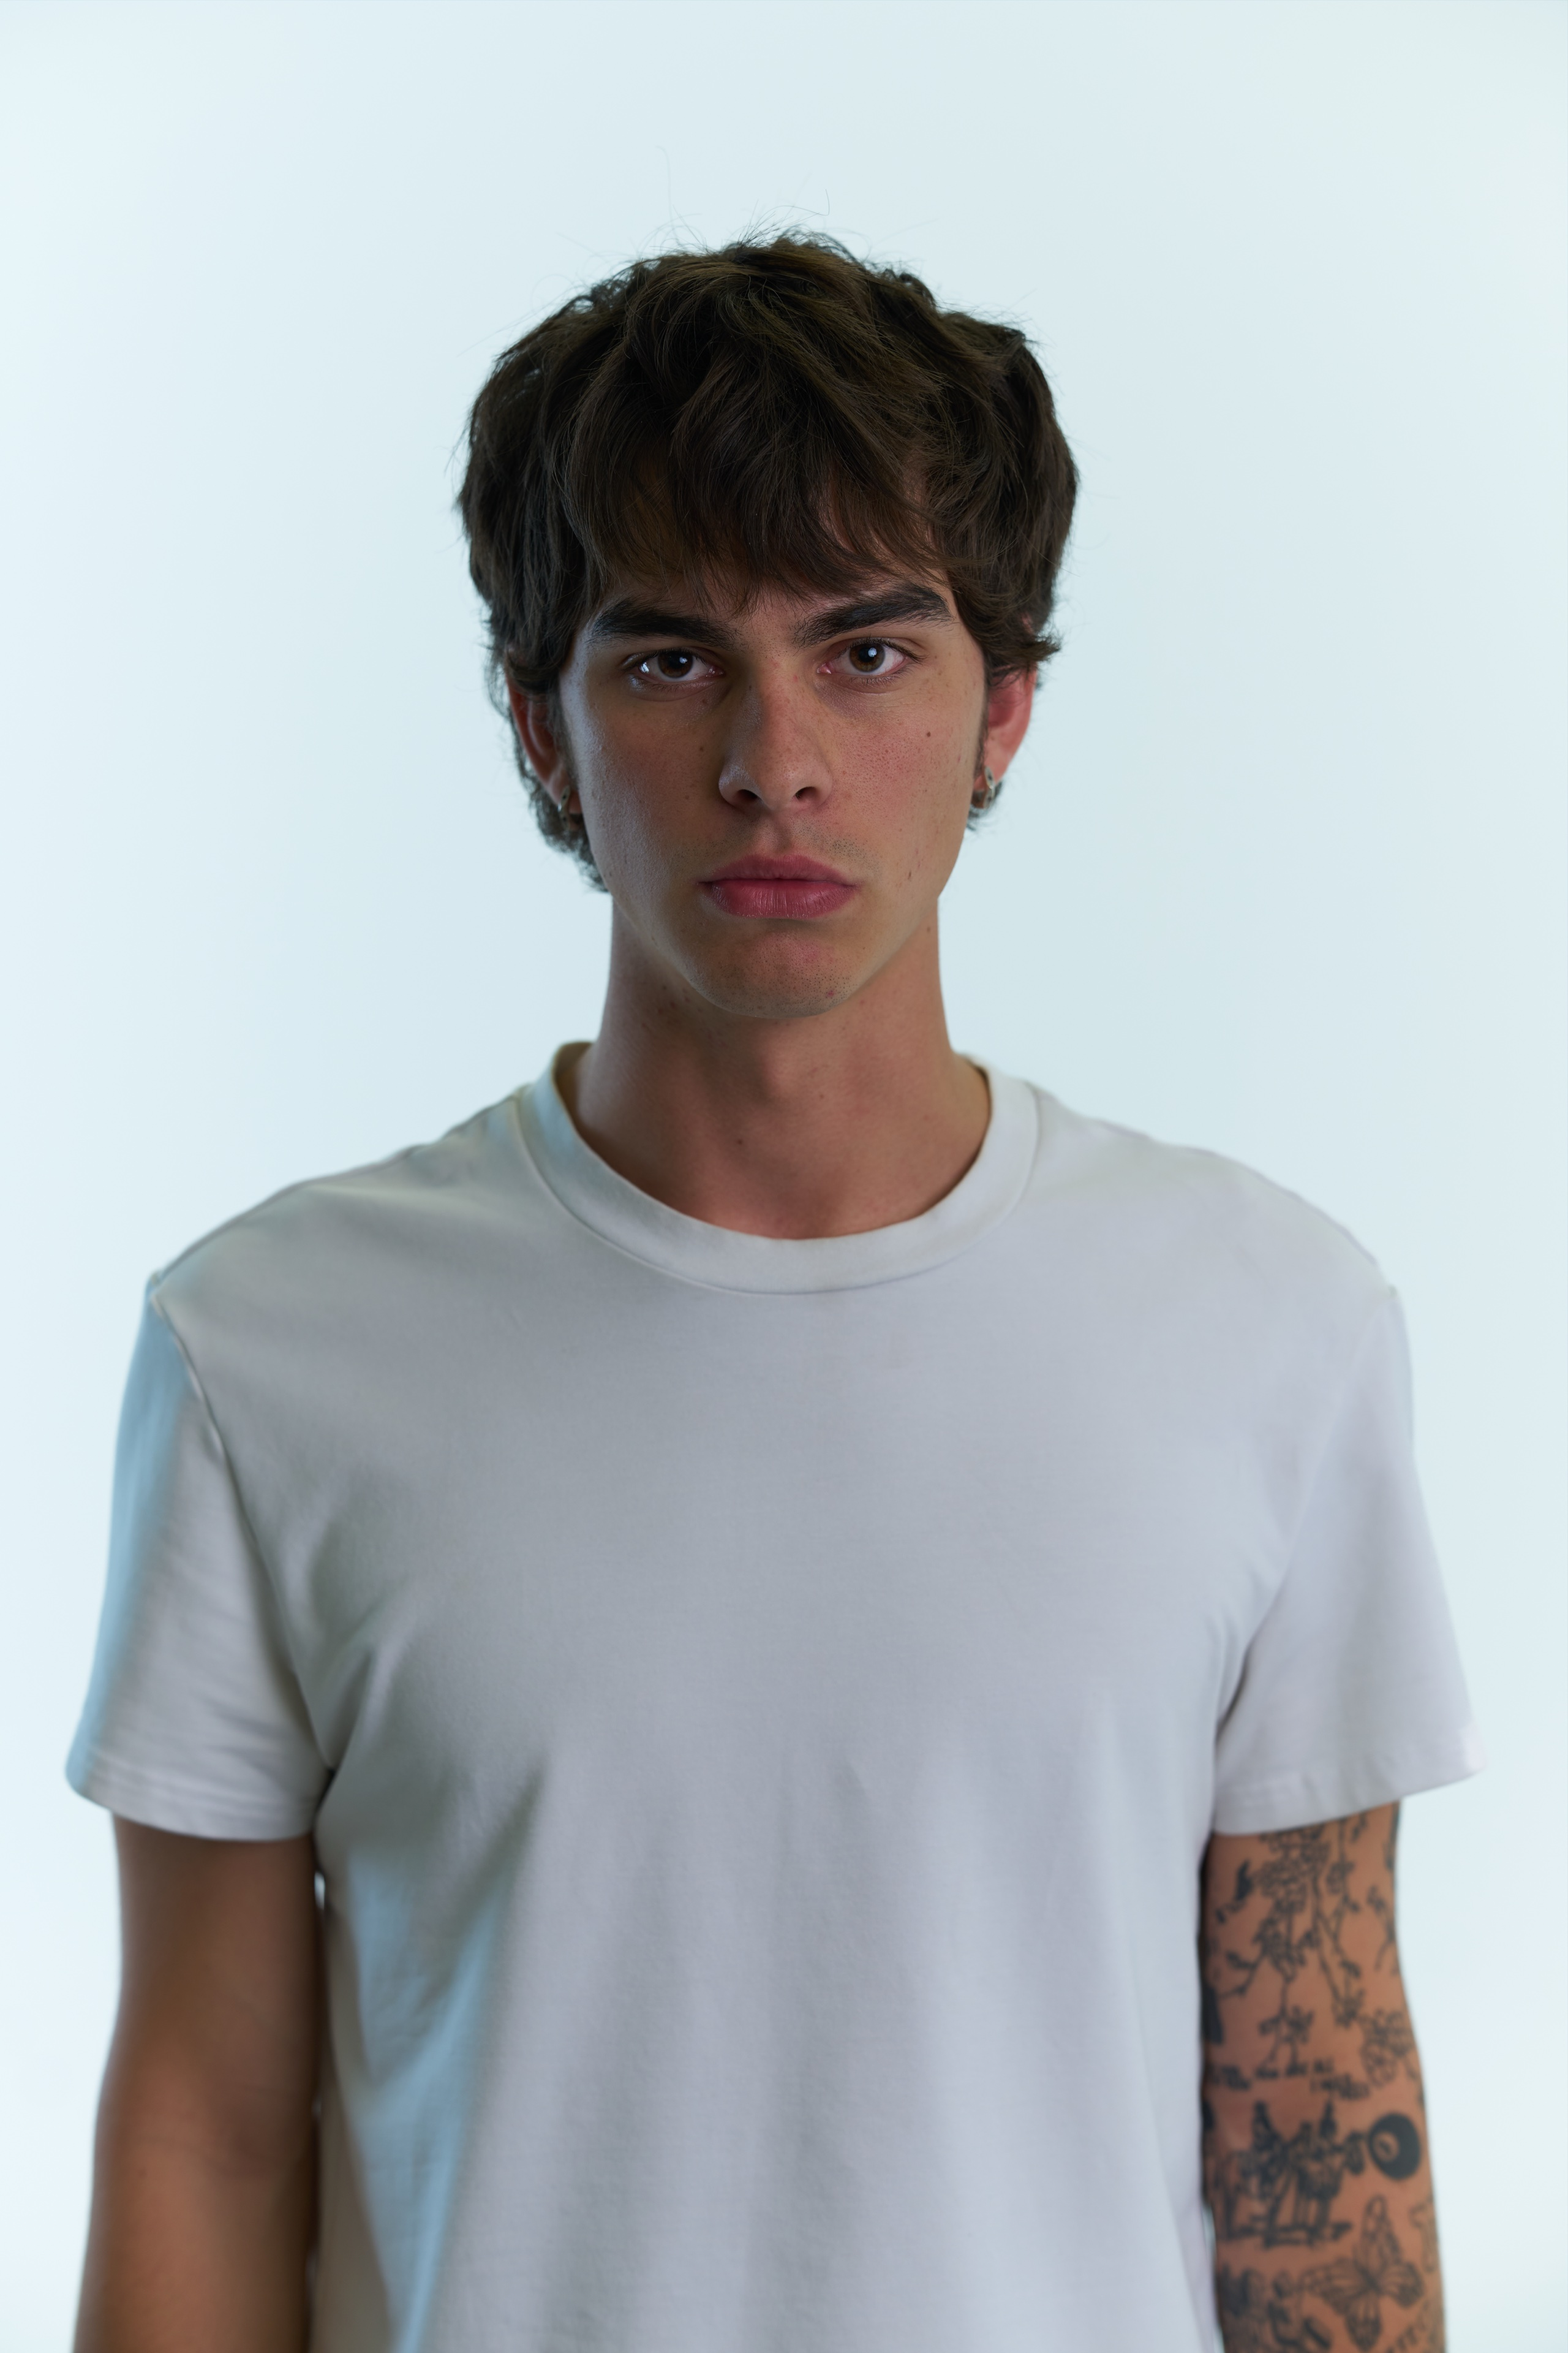
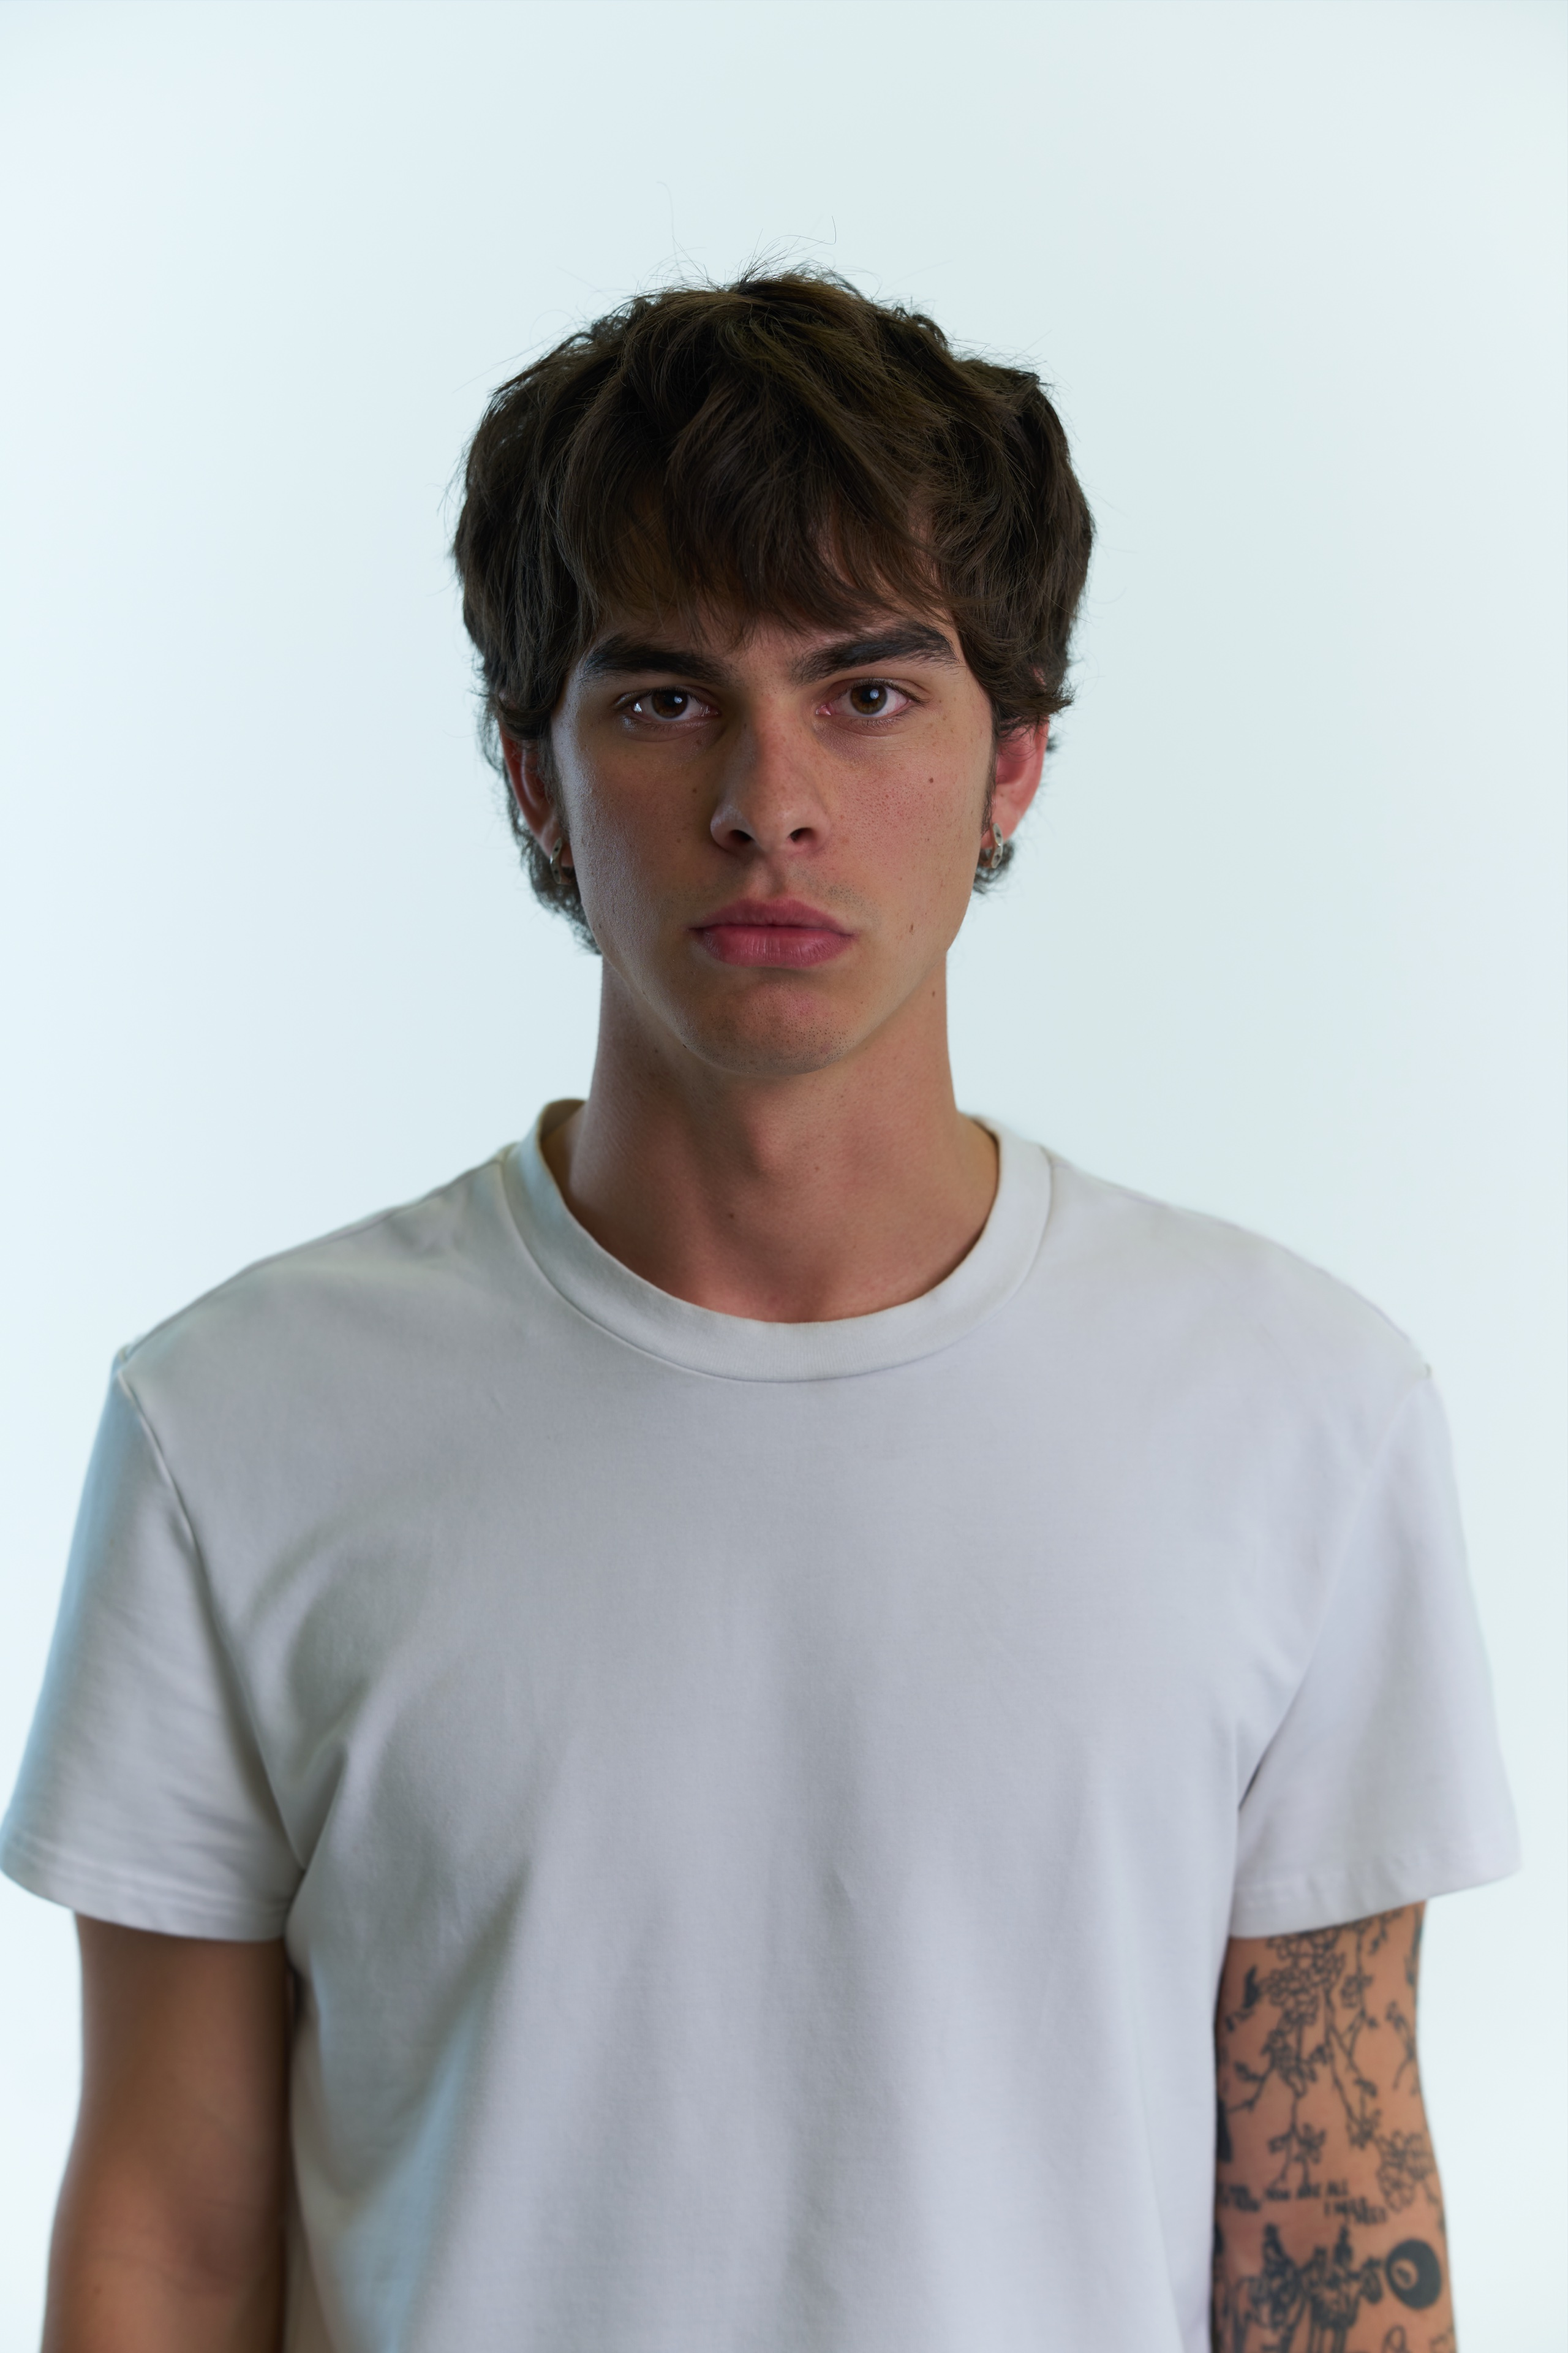
Drop the duplicate front-facing Models photo (DSC09401)
The set had two front-facing shots; removed the wider one (DSC09401)
and rotated the close-up (DSC09407) to the front of the sequence, so
the loop still opens on a front-facing photo and reads front -> turn
-> back around to front at the wrap. Gallery is now 6 photos. The
landing cover keeps the same 01.jpg path (now the close-up), with its
crop anchor adjusted so the whole head fits the tighter framing.

Verified in-browser: gallery opens on the front close-up with 18
cards (3 x 6) and the loop intact, and the cover shows the full face.
tsc, lint, and a clean production build pass.

Changed region(s): [[0.0, 0.0938, 0.9062, 1.0], [0.75, 0.625, 0.9375, 1.0]]

diff --git a/src/components/Hero.tsx b/src/components/Hero.tsx
@@ -21,9 +21,10 @@ const works = [
     label: "Models Portfolio Work",
     image: "/work/models-portfolio/01.jpg",
     href: "/models-portfolio-work",
-    // Front-facing portrait from the white-tee session — anchor the crop
-    // high so his whole head fits with a little headroom above the hair.
-    thumbPosition: "center 10%",
+    // Front-facing close-up from the white-tee session — his head fills
+    // more of this tighter frame, so anchor a touch lower than a top crop
+    // to fit the whole head plus a little headroom.
+    thumbPosition: "center 20%",
   },
   {
     id: 3,

diff --git a/src/app/models-portfolio-work/page.tsx b/src/app/models-portfolio-work/page.tsx
@@ -8,7 +8,7 @@ export const metadata: Metadata = {
 };
 
 const images = Array.from(
-  { length: 7 },
+  { length: 6 },
   (_, i) => `/work/models-portfolio/${String(i + 1).padStart(2, "0")}.jpg`,
 );
 
